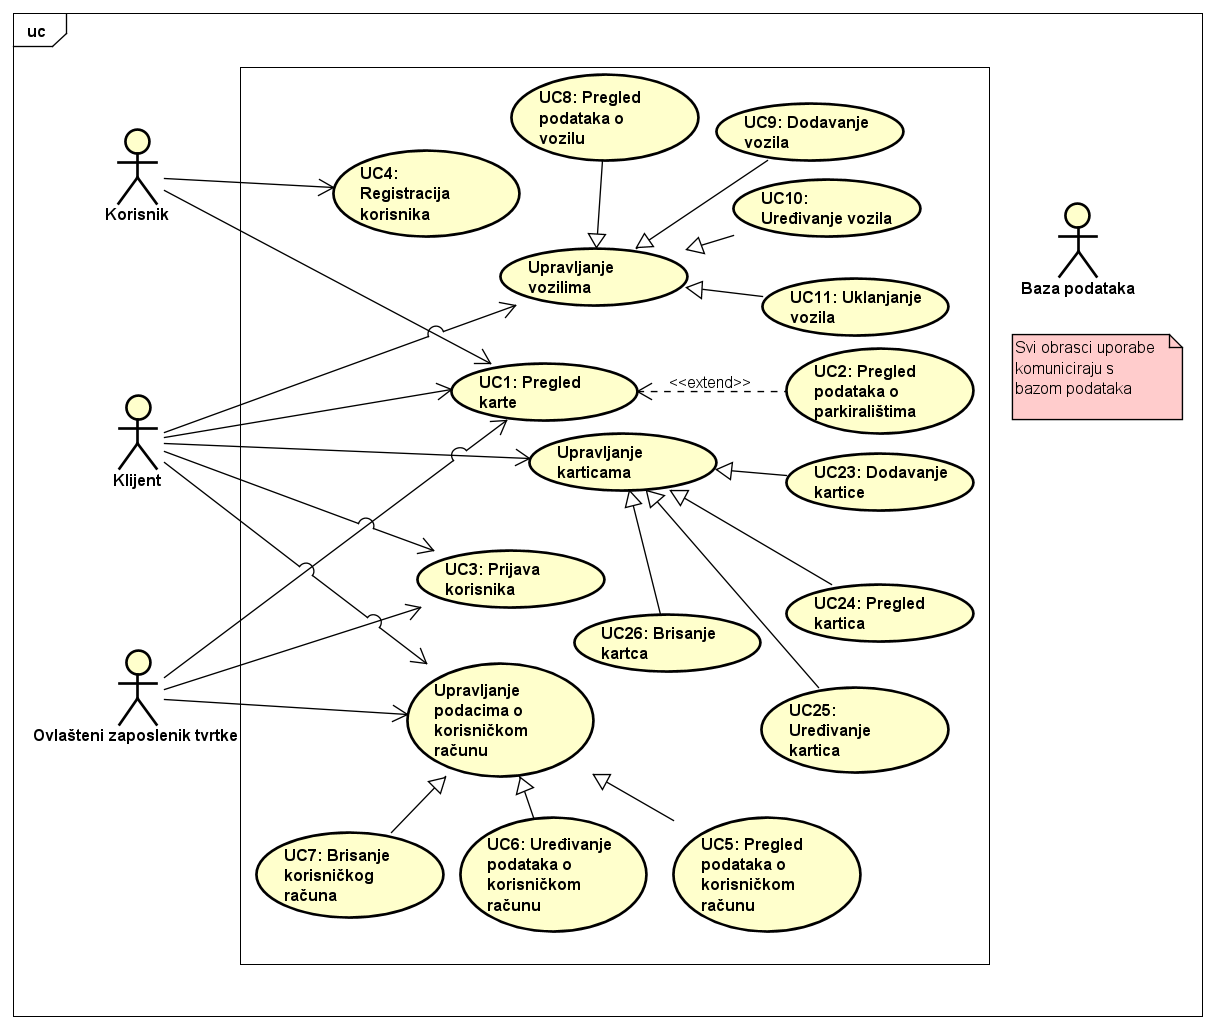
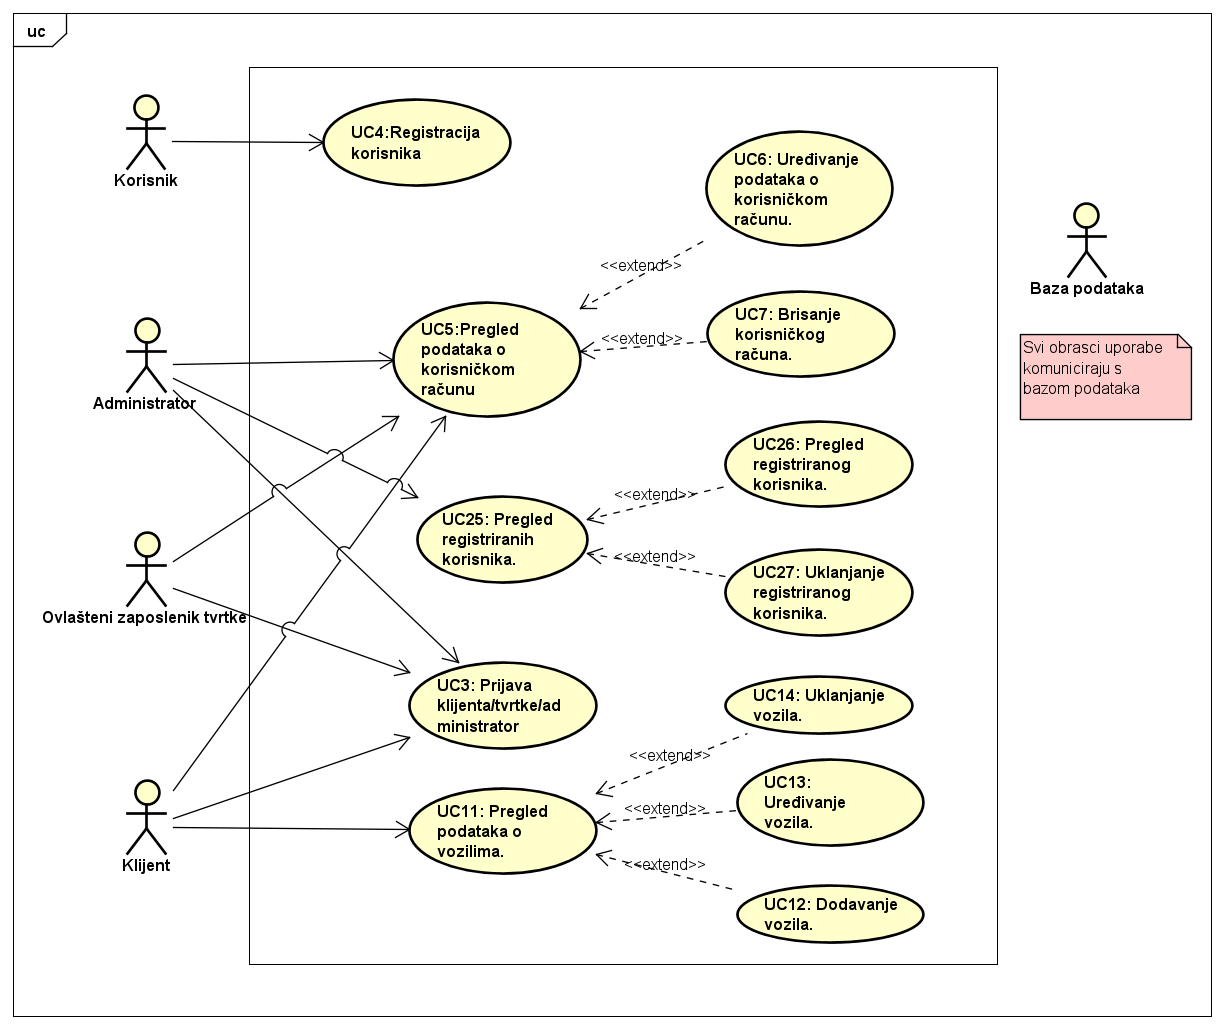
Update UC Diagrams

diff --git a/dokumentacija/Specifikacija_programske_potpore.tex b/dokumentacija/Specifikacija_programske_potpore.tex
@@ -71,7 +71,7 @@
 	
 	\begin{packed_enum}
 		
-		\item pohranjivati podatke o korisnicima (osobni podatci, kartica, vozila)
+		\item pohranjivati podatke o korisnicima (osobni podaci, kartica, vozila)
 		\item pohranjivati podatke o parkiralištima (njihovim kapacitetima i ponudama)
 		\item pohranjivati podatke o rezervacijama
 		\item pohranjivati podatke o tvrtkama
@@ -96,7 +96,7 @@
 \noindent \underbar{\textbf{UC\showuccounter\ - Pregled karte}}
 \begin{packed_item}
 	
-	\item \textbf{Glavni sudionik: } Korisnik/Klijent/Tvrtka/Administrator
+	\item \textbf{Glavni sudionik: } Korisnik/Klijent/Tvrtka
 	\item \textbf{Cilj:} Pogledati kartu s označenim parkiralištima
 	\item \textbf{Sudionici:} Baza podataka
 	\item \textbf{Preduvjet:} Korisnik/Klijent/Tvrtka/Administrator je u aplikaciji
@@ -114,7 +114,7 @@
 \noindent \underbar{\textbf{UC\showuccounter\ - Pregled podataka o parkiralištu na karti}}
 \begin{packed_item}
 	
-	\item \textbf{Glavni sudionik:} Korisnik/Klijent/Tvrtka/Administrator
+	\item \textbf{Glavni sudionik:} Korisnik/Klijent/Tvrtka
 	\item \textbf{Cilj:} Pregleda podataka o parkiralištu
 	\item \textbf{Sudionici:} Baza podataka
 	\item \textbf{Preduvjet:} UC1
@@ -122,8 +122,8 @@
 	
 	\item[] \begin{packed_enum}
 		
-		\item Korisnik/Klijent/Tvrtka/Administrator pritišće na oznaku parkirališta na karti
-		\item Prikazuju se osnovni podatci o parkiralištu i o tvrtki koja je nadležna za to parkiralište
+		\item Korisnik/Klijent/Tvrtka pritišće na oznaku parkirališta na karti
+		\item Prikazuju se osnovni podaci o parkiralištu i o tvrtki koja je nadležna za to parkiralište
 
 	\end{packed_enum}
 \end{packed_item}
@@ -198,7 +198,7 @@
 	
 	\item[] \begin{packed_item}
 	
-		\item[3.a] Nevažeći podatci prilikom registracije korisnika
+		\item[3.a] Nevažeći podaci prilikom registracije korisnika
 		\item[] \begin{packed_enum}
 			
 			\item Korisnik se obavještava o neuspjeloj registraciji
@@ -221,7 +221,7 @@
 	\item[] \begin{packed_enum}
 		
 		\item Klijent/Tvrtka/Administrator otvara podatke o korisničkom računu
-		\item Prikažu se podatci o korisničkom računu
+		\item Prikažu se podaci o korisničkom računu
 	
 	\end{packed_enum}
 	
@@ -251,7 +251,7 @@
 	
 	\item[] \begin{packed_item}
 		
-		\item[6.a] Nevažeći podatci prilikom spremanja promjena
+		\item[6.a] Nevažeći podaci prilikom spremanja promjena
 		\item[] \begin{packed_enum}
 			
 			\item Klijentu/Tvrtki/Administratoru se prikazuje poruka o nevažećim podacima
@@ -289,7 +289,7 @@
 	\item \textbf{Glavni sudionik:} Klijent
 	\item  \textbf{Cilj:} Rezervirati parkirališno mjesto na parkiralištu
 	\item  \textbf{Sudionici:} Baza podataka
-	\item  \textbf{Preduvjet:} UC2
+	\item  \textbf{Preduvjet:} Klijent je odabrao parkiralište
 	\item  \textbf{Opis osnovnog tijeka:}
 	
 	\item[] \begin{packed_enum}
@@ -365,11 +365,11 @@
 \end{packed_item}
 
 
-\noindent \underbar{\textbf{UC\showuccounter\ - Pregled podataka o vozilu}}
+\noindent \underbar{\textbf{UC\showuccounter\ - Pregled podataka o vozilima}}
 \begin{packed_item}
 	
 	\item \textbf{Glavni sudionik:} Klijent
-	\item \textbf{Cilj:} Pregledati podatke o vozilu
+	\item \textbf{Cilj:} Pregledati podatke o vozilima
 	\item \textbf{Sudionici:} Baza podataka
 	\item \textbf{Preduvjet:} Klijent je prijavljen
 	\item \textbf{Opis osnovnog tijeka:}
@@ -377,8 +377,7 @@
 	\item[] \begin{packed_enum}
 		
 		\item Klijent otvara popis vozila
-		\item Klijent odabire vozilo koje želi pregledati
-		\item Prikažu se podaci o vozilu
+		\item Prikažu se podaci o vozilima
 	
 	\end{packed_enum}
 \end{packed_item}
@@ -389,7 +388,7 @@
 	\item \textbf{Glavni sudionik:} Klijent
 	\item \textbf{Cilj:} Dodati vozilo
 	\item \textbf{Sudionici:} Baza podataka
-	\item \textbf{Preduvjet:} UC5
+	\item \textbf{Preduvjet:} UC11
 	\item \textbf{Opis osnovnog tijeka:}
 	
 	\item[] \begin{packed_enum}
@@ -405,7 +404,7 @@
 	
 	\item[] \begin{packed_item}
 		
-		\item[6.a] Nevažeći podatci prilikom dodavanja vozila
+		\item[6.a] Nevažeći podaci prilikom dodavanja vozila
 		\item[] \begin{packed_enum}
 			
 			\item Klijentu se prikazuje poruka o nevažećim podacima
@@ -441,7 +440,7 @@
 	
 	\item[] \begin{packed_item}
 		
-		\item[6.a] Nevažeći podatci prilikom spremanja promjena
+		\item[3.a] Nevažeći podaci prilikom spremanja promjena
 		\item[] \begin{packed_enum}
 			
 			\item Klijentu se prikazuje poruka o nevažećim podacima
@@ -477,16 +476,16 @@
 \noindent \underbar{\textbf{UC\showuccounter\ - Pregled podataka o parkiralištu}}
 \begin{packed_item}
 	
-	\item \textbf{Glavni sudionik: } Administrator/Tvrtka
+	\item \textbf{Glavni sudionik: } Tvrtka
 	\item \textbf{Cilj:} Pregledati podatke o parkiralištu
 	\item \textbf{Sudionici:} Baza podataka
-	\item \textbf{Preduvjet:} Administrator/Tvrtka je prijavljena
+	\item \textbf{Preduvjet:} Tvrtka je prijavljena
 	\item \textbf{Opis osnovnog tijeka:}
 	
 	\item[] \begin{packed_enum}
 		
-		\item Administrator/Tvrtka otvara popis parkirališta
-		\item Administrator/Tvrtka odabire parkiralište koje želi pregledati
+		\item Tvrtka otvara popis parkirališta
+		\item Tvrtka odabire parkiralište koje želi pregledati
 		\item Prikažu se podaci o parkiralištu
 	
 	\end{packed_enum}
@@ -498,7 +497,7 @@
 	\item \textbf{Glavni sudionik:} Tvrtka
 	\item \textbf{Cilj:} Dodati parkiralište
 	\item \textbf{Sudionici:} Baza podataka
-	\item \textbf{Preduvjet:} Tvrtka je prijavljen
+	\item \textbf{Preduvjet:} Tvrtka je otvorila popis parkirališta
 	\item \textbf{Opis osnovnog tijeka:}
 	
 	\item[] \begin{packed_enum}
@@ -534,14 +533,12 @@
 	\item \textbf{Glavni sudionik:} Tvrtka
 	\item \textbf{Cilj:} Urediti podatke o parkiralištu
 	\item \textbf{Sudionici:} Baza podataka
-	\item \textbf{Preduvjet:} Tvrtka je prijavljena
+	\item \textbf{Preduvjet:} UC15
 	\item \textbf{Opis osnovnog tijeka:}
 	
 	\item[] \begin{packed_enum}
 		
-		\item Tvrtka otvara popis parkirališta
-		\item Tvrtka odabire parkiralište koje želi urediti
-		\item Otvara se forma za uređivanje parkirališta popunjena sa podacima odabranoga parkirališta
+		\item Tvrtka odabire opciju za uređivanje parkirališta
 		\item Tvrtka uređuje podatke
 		\item Tvrtka sprema promjene
 	
@@ -551,7 +548,7 @@
 	
 	\item[] \begin{packed_item}
 		
-		\item[6.a] Nevažeći podatci prilikom spremanja promjena
+		\item[2.a] Nevažeći podaci prilikom spremanja promjena
 		\item[] \begin{packed_enum}
 			
 			\item Tvrtki se prikazuje poruka o nevažećim podacima
@@ -570,13 +567,11 @@
 	\item \textbf{Glavni sudionik:} Tvrtka
 	\item \textbf{Cilj:} Ukloniti parkiralište
 	\item \textbf{Sudionici:} Baza podataka
-	\item \textbf{Preduvjet:} Tvrtka je prijavljen
+	\item \textbf{Preduvjet:} UC15
 	\item \textbf{Opis osnovnog tijeka:}
 	
 	\item[] \begin{packed_enum}
 		
-		\item Tvrtka otvara popis parkirališta te se odabire parkiralište koje se želi ukloniti
-		\item Prikažu se detalji parkirališta
 		\item Tvrtka odabire akciju uklanjanja parkirališta
 		\item Parkiralište više nije vidljivo na karti niti na popisu parkirališta
 
@@ -605,7 +600,7 @@
 \noindent \underbar{\textbf{UC\showuccounter\ - Pregled recenzija}}
 \begin{packed_item}
 	
-	\item \textbf{Glavni sudionik:} Klijent/Tvrtka
+	\item \textbf{Glavni sudionik:} Klijent
 	\item  \textbf{Cilj:} Pregledati postojeće recenzije
 	\item  \textbf{Sudionici:} Baza podataka
 	\item  \textbf{Preduvjet:} UC2
@@ -613,13 +608,32 @@
 	
 	\item[] \begin{packed_enum}
 		
-		\item Klijent/Tvrtka odabire akciju za prikaz recenziju
+		\item Klijent odabire akciju za prikaz recenziju
 		\item Otvara se popis recenzija za odabrano parkiralište
 	
 	\end{packed_enum}
 \end{packed_item}
 
+\noindent \underbar{\textbf{UC\showuccounter\ - Pregled vlastitih recenzija}}
+\begin{packed_item}
+	
+	\item \textbf{Glavni sudionik:} Tvrtka
+	\item  \textbf{Cilj:} Pregledati recenzije na vlastitim parkiralištima
+	\item  \textbf{Sudionici:} Baza podataka
+	\item  \textbf{Preduvjet:} Tvrtka je prijavljena
+	\item  \textbf{Opis osnovnog tijeka:}
+	
+	\item[] \begin{packed_enum}
+		
+		\item Tvrtka odabire akciju za prikaz recenzija
+		\item Otvara se popis parkirališta
+		\item Odabire parkiralište za koje želi pregledati recenzije
+		\item Prikažu se sve recenzije za odabrano parkiralište
+	
+	\end{packed_enum}
+\end{packed_item}
 
+\pagebreak
 \noindent \underbar{\textbf{UC\showuccounter\ - Dodavanje recenzije}}
 \begin{packed_item}
 	
@@ -689,14 +703,14 @@
 		
 \end{packed_item}
 
-
+\pagebreak
 \noindent \underbar{\textbf{UC\showuccounter\ - Komentiranje recenzije}}
 \begin{packed_item}
 	
 	\item \textbf{Glavni sudionik:} Klijent/Tvrtka
 	\item  \textbf{Cilj:} Komentar na recenziju
 	\item  \textbf{Sudionici:} Baza podataka
-	\item  \textbf{Preduvjet:} UC20
+	\item  \textbf{Preduvjet:} Klijent/Tvrtka pregledava recenzije
 	\item  \textbf{Opis osnovnog tijeka:}
 	
 	\item[] \begin{packed_enum}
@@ -709,7 +723,7 @@
 	\end{packed_enum}
 \end{packed_item}
 
-\pagebreak
+
 
 \noindent \underbar{\textbf{UC\showuccounter\ - Pregled registriranih korisnika}}
 \begin{packed_item}
@@ -748,7 +762,7 @@
 
 
 
-\noindent \underbar{\textbf{UC\showuccounter\ - Uklanjanje registriranog korisnika}}
+\pagebreak\noindent \underbar{\textbf{UC\showuccounter\ - Uklanjanje registriranog korisnika}}
 \begin{packed_item}
 	
 	\item \textbf{Glavni sudionik:} Administrator

diff --git a/dokumentacija/Dnevnik_promjena_dokumentacije.tex b/dokumentacija/Dnevnik_promjena_dokumentacije.tex
@@ -18,6 +18,7 @@
 	0.6 & Dodana dokumentacija za bazu podataka. & Krišto, Strejček & 5.11.2020. \\[3pt] \hline
 	0.7 & Dodani sekvencijski dijagrami. & Djaković, Matković, Strejček & 10.11.2020. \\[3pt] \hline
 	0.8 & Popravljeni obrasci uporabe & Bakić, Matković, Strejček & 12.11.2020. \\[3pt] \hline
+	0.9 & Popravljeni dijagrami & Krišto, Strejček & 13.11.2020. \\[3pt] \hline
 	&  &  & \\[3pt] \hline
 
 	
